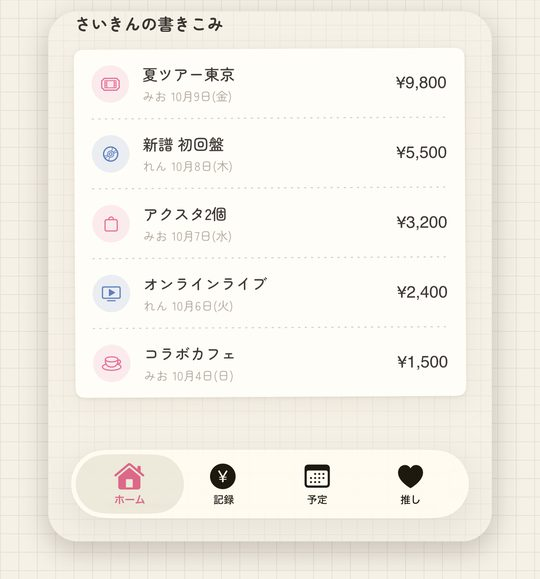
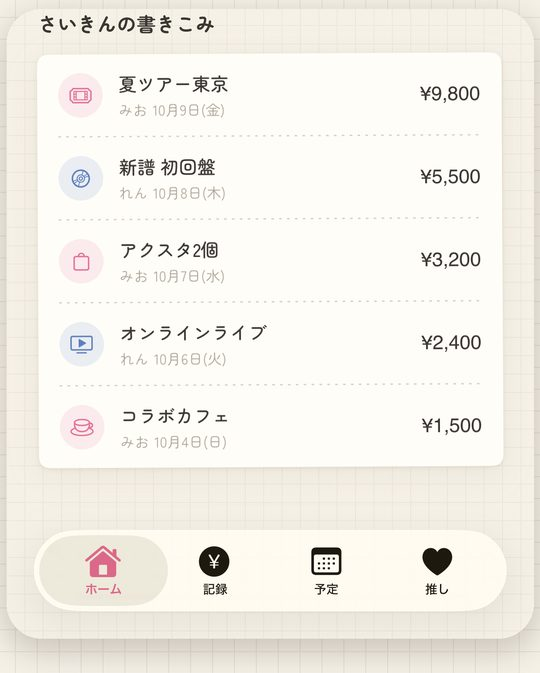
LP: tighter spacing, transparent hero card, reassurance row

diff --git a/index.html b/index.html
@@ -12,16 +12,16 @@
 *{box-sizing:border-box} body{margin:0;font-family:"Zen Maru Gothic",-apple-system,"Hiragino Maru Gothic ProN",sans-serif;color:var(--ink);background:var(--paper);
 background-image:linear-gradient(var(--grid) 1px,transparent 1px),linear-gradient(90deg,var(--grid) 1px,transparent 1px);background-size:28px 28px}
 main{max-width:980px;margin:0 auto;padding:0 20px 110px}
-.hero{text-align:center;padding:44px 0 8px} .hero h1{font-size:clamp(34px,9vw,60px);line-height:1.25;margin:0 0 10px}
-.hero .s{font-size:18px;color:var(--ink2);margin:0 0 22px} .hero img{width:min(80vw,340px);height:auto;margin:24px auto 0;display:block}
+.hero{text-align:center;padding:36px 0 0} .hero h1{font-size:clamp(34px,9vw,60px);line-height:1.25;margin:0 0 10px}
+.hero .s{font-size:18px;color:var(--ink2);margin:0 0 22px} .hero img{width:min(78vw,320px);height:auto;margin:16px auto 0;display:block}
 .btn{display:inline-flex;gap:10px;align-items:center;background:var(--ink);color:#fff;text-decoration:none;border-radius:999px;padding:16px 30px;font-weight:700;font-size:18px}
 .btn small{font-weight:500;opacity:.75;font-size:13px}
 .chips{display:flex;justify-content:center;gap:8px;margin-top:14px;font-size:14px;color:var(--ink2)} .chips span:not(:last-child):after{content:"・";margin-left:8px}
-.b{display:grid;gap:18px;align-items:center;margin:72px 0 0} .b img{width:min(72vw,300px);height:auto;justify-self:center;border-radius:28px;box-shadow:0 16px 40px rgba(70,45,35,.16)}
+.b{display:grid;gap:18px;align-items:center;margin:44px 0 0} .b img{width:min(72vw,300px);height:auto;justify-self:center;border-radius:28px;box-shadow:0 16px 40px rgba(70,45,35,.16)}
 @media(min-width:820px){.b{grid-template-columns:1fr 1fr} .b:nth-of-type(even) .t{order:2}}
 .t{text-align:center} .q{font-size:clamp(26px,6.5vw,40px);font-weight:700;margin:0;line-height:1.35}
 .a{display:inline-block;font-size:clamp(18px,4.5vw,24px);font-weight:700;margin:12px 0 0;padding:2px 10px;background:linear-gradient(transparent 55%,rgba(229,115,155,.35) 55%)}
-.end{text-align:center;margin-top:80px} .end p{font-size:clamp(24px,6vw,34px);font-weight:700;margin:0 0 18px}
+.end{text-align:center;margin-top:48px} .safe{display:grid;grid-template-columns:repeat(3,1fr);gap:8px;max-width:560px;margin:0 auto 22px} .safe div{background:#fffdf8;border-radius:14px;padding:12px 6px;font-size:13px;line-height:1.5;color:var(--ink2)} .safe b{display:block;font-size:15px;color:var(--ink)} .end p{font-size:clamp(24px,6vw,34px);font-weight:700;margin:0 0 18px}
 footer{text-align:center;font-size:12px;color:var(--ink2);margin-top:56px;line-height:2} footer a{color:var(--ink2)}
 .sticky{position:fixed;left:0;right:0;bottom:0;padding:12px 16px calc(12px + env(safe-area-inset-bottom));background:linear-gradient(transparent,var(--paper) 40%);display:flex;justify-content:center}
 @media(min-width:820px){.sticky{display:none}}
@@ -31,13 +31,13 @@ footer{text-align:center;font-size:12px;color:var(--ink2);margin-top:56px;line-h
 <p class="s">推し活の家計簿アプリ</p>
 <a class="btn" href="https://apps.apple.com/jp/app/apple-store/id6779825147?ct=lp_top&mt=8&pt=127976734">App Store で見る <small>無料</small></a>
 <div class="chips"><span>無料ではじめられる</span><span>広告なし</span><span>★4.8</span></div>
-<img class="card" src="assets/hero-money.jpg" alt="推しの写真と「これまで ¥128,400」のカード" width="720" height="720">
+<img class="card" src="assets/hero-money.png" alt="推しの写真と「これまで ¥128,400」のカード" width="640" height="661">
 </section>
 <section class="b"><div class="t"><p class="q">推しに、いくら使った？</p><p class="a">推しごとに自動で集計</p></div>
 <img src="assets/1-month.jpg" alt="推しごとの今月の合計が出る画面" loading="lazy"></section><section class="b"><div class="t"><p class="q">物販、レシートがない…</p><p class="a">金額だけ、数秒で記録</p></div>
 <img src="assets/2-buppan.jpg" alt="物販で買ったものを数秒で記録する画面" loading="lazy"></section><section class="b"><div class="t"><p class="q">入金締切、忘れそう</p><p class="a">当落と入金をまとめて管理</p></div>
 <img src="assets/3-schedule.jpg" alt="当落と入金締切が並ぶ予定の画面" loading="lazy"></section>
-<section class="end"><p>推し活、ぜんぶ残そう。</p><a class="btn" href="https://apps.apple.com/jp/app/apple-store/id6779825147?ct=lp_bottom&mt=8&pt=127976734">推しログをはじめる <small>無料</small></a></section>
+<section class="end"><p>推し活、ぜんぶ残そう。</p><div class="safe"><div><b>無料</b>推し2人まで<br>ずっと使える</div><div><b>広告なし</b>記録は<br>端末の中だけ</div><div><b>機種変更OK</b>データの移行も<br>無料でできる</div></div><a class="btn" href="https://apps.apple.com/jp/app/apple-store/id6779825147?ct=lp_bottom&mt=8&pt=127976734">推しログをはじめる <small>無料</small></a></section>
 <footer>iPhone 用（iOS 17 以降）｜無料: 推し2人まで・今月と先月｜Pro: 月額¥480／年額¥4,800<br>
 <a href="guide/">推し活の記録ガイド</a>｜<a href="build/">開発ログ</a>｜<a href="support.html">サポート</a>｜<a href="privacy.html">プライバシー</a>｜<a href="terms.html">利用規約</a>｜合同会社AMOR</footer>
 </main><div class="sticky"><a class="btn" href="https://apps.apple.com/jp/app/apple-store/id6779825147?ct=lp_top&mt=8&pt=127976734">App Store で見る <small>無料</small></a></div></body></html>
